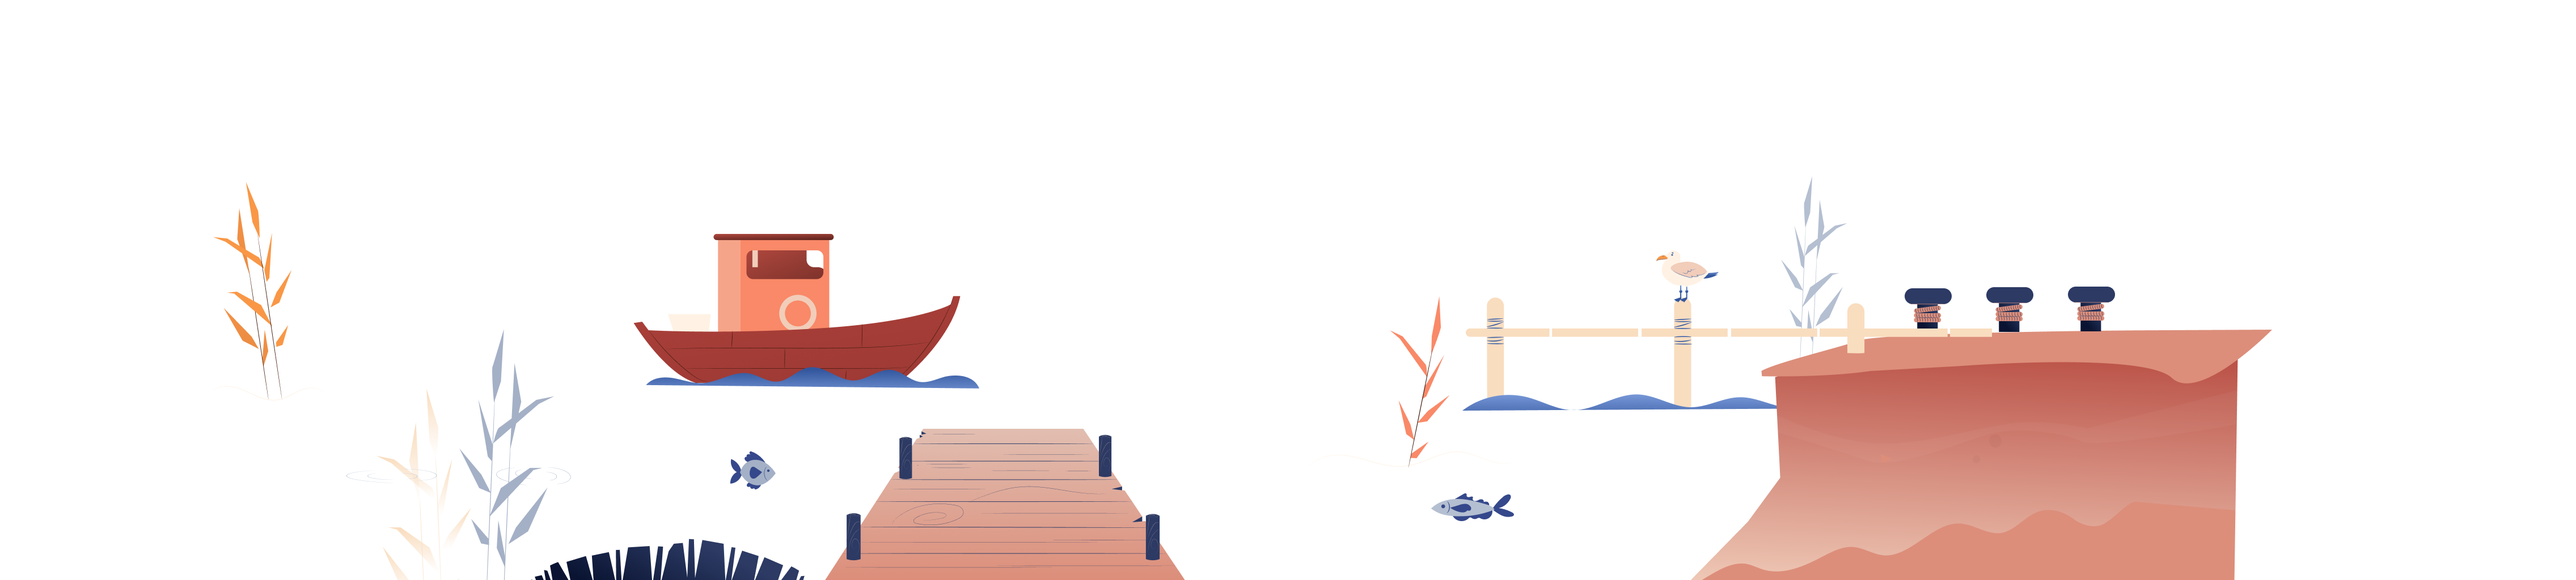
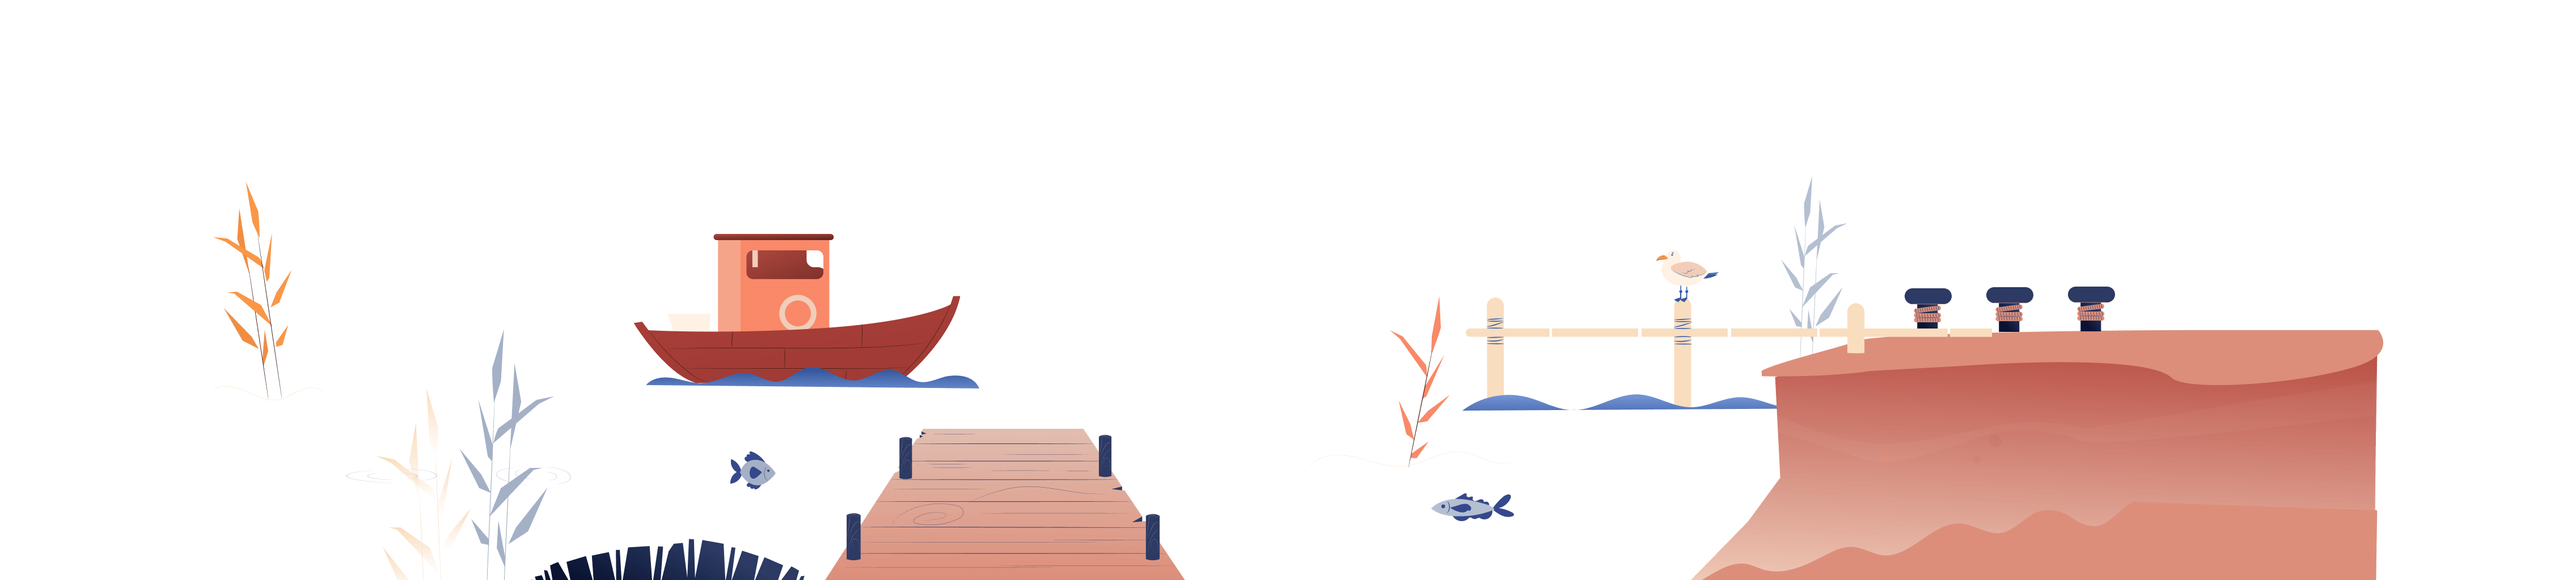
update parallax 10 & 11

Changed region(s): [[0.838, 0.5625, 0.9311, 1.0]]

diff --git a/components/Chapter11.vue b/components/Chapter11.vue
@@ -2,7 +2,7 @@
     <section class="b--page-a__item b--chapter11-a" id="Scene11" ref="Scene11"  v-if="chapter">
         <div class="b--ss-a"> 
             <div class="b--ss-a__ft-items">
-                <img v-lazy="require(`@/assets/img/chapter-11/front-parallax.png`)" alt="front" />
+                <img ref="parallax-ft" :style="{ left: '66%' }" v-lazy="require(`@/assets/img/chapter-11/front-parallax.png`)" alt="front" />
             </div>
             <div class="b--ss-a__content">
                 <!-- first position element, card -->
@@ -66,7 +66,7 @@ import Parallax from '@/mixins/Parallax.js';
 import Animation from '@/mixins/Animation.js';
 
 export default {
-    mixins: ['infoWindow',Parallax,Animation],
+    mixins: [Parallax,Animation],
     components:{
         'v-card-f':CardF,
         'v-info-chapter' : InfoChapter,
@@ -84,15 +84,25 @@ export default {
         handleLoad(){
             this.contentLoaded++;
         },
-        animate(){
-            this.$nextTick(() => {
-                this.startAnimation({
-                    sceneID : 11,
-                    scrub:0,
-                    scrollTween : this.scrollTween
+
+        AsambleParallaxObjs() {
+            var motion = [
+                { obj: this.$refs['parallax-bg'], intensity: 4 },
+                { obj: this.$refs['parallax-ft'], intensity: 21 },
+                // { obj: this.$refs['parallax-ft'], intensity: 21 },
+                // { obj: this.$refs['fisherman'], intensity: 21 },
+                // { obj: this.$refs['boxContent'], intensity: 21 },
+            ]
+            motion.forEach((item) => {
+                this.parallaxMove({
+                el: item.obj,
+                intensity: item.intensity,
+                duration: this.$refs['Scene11'].offsetWidth,
+                containerAnimation: this.scrollTween,
+                scrub: true,
                 })
             })
-        }
+        },
     },
     watch: {
         contentLoaded(newValue, oldValue) {
@@ -103,7 +113,14 @@ export default {
         },
         scrollTween(newValue, oldValue){
             if (newValue ) {
-                this.animate();
+                //motion frontend and backend elements
+                this.AsambleParallaxObjs()
+                // mixin function
+                this.startAnimation({
+                    sceneID: 11,
+                    scrub: 0,
+                    scrollTween: this.scrollTween,
+                })
             } 
         }
     },

diff --git a/mixins/Parallax.js b/mixins/Parallax.js
@@ -11,7 +11,6 @@ export default {
                 x: () =>  duration * -intensity/10,
                 force3D:false,
                 ease: "none",
-                // ease: "bounce.out",
                 scrollTrigger: {
                     containerAnimation: containerAnimation,
                     scrub: scrub,

diff --git a/components/Chapter10.vue b/components/Chapter10.vue
@@ -23,7 +23,7 @@
       </div>
       <div class="b--ss-a__ft-items">
         <img
-            class="b--ss-a__ft-items__media"
+          class="b--ss-a__ft-items__media"
           v-lazy="require(`@/assets/img/chapter-10/front.png`)"
         />
         <img
